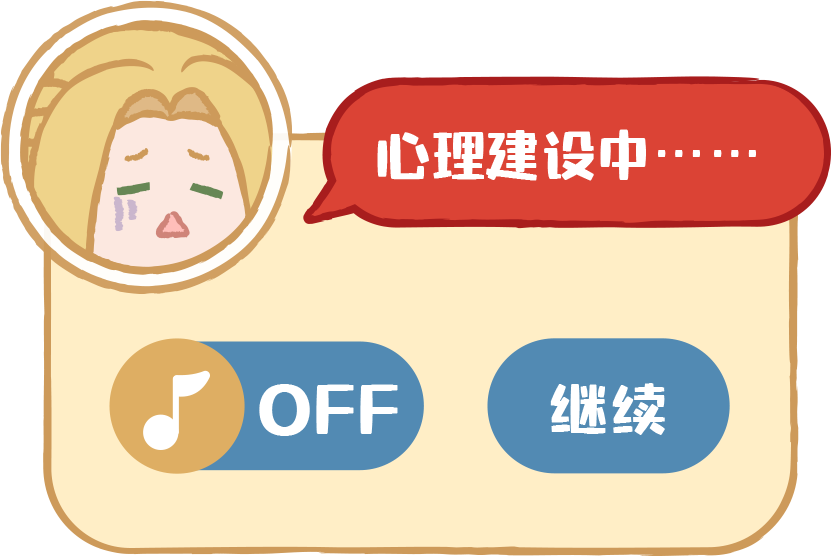
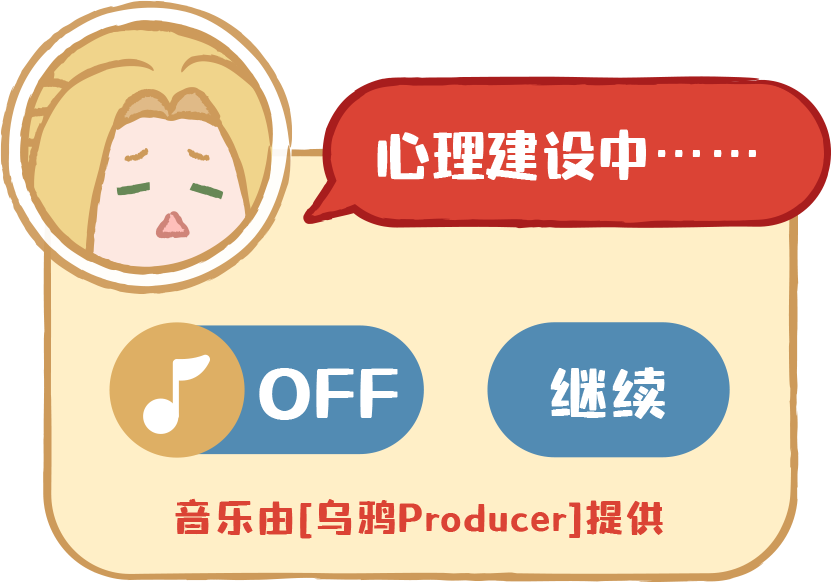
4.13

diff --git a/scripts/snake.js b/scripts/snake.js
@@ -119,7 +119,7 @@ function resize() {
   tipTop = 350 / 659 * windowHeight
   tipLeft = (windowWidth + gameWidth) / 2 + 105 / 659 * windowHeight
 
-  pausePanelHeight = 150 / 659 * windowHeight
+  pausePanelHeight = 155 / 659 * windowHeight
   pausePanelWidth = 222 / 659 * windowHeight
   pausePanelTop = 205 / 659 * windowHeight
   pausePanelLeft = (windowWidth - pausePanelWidth) / 2
